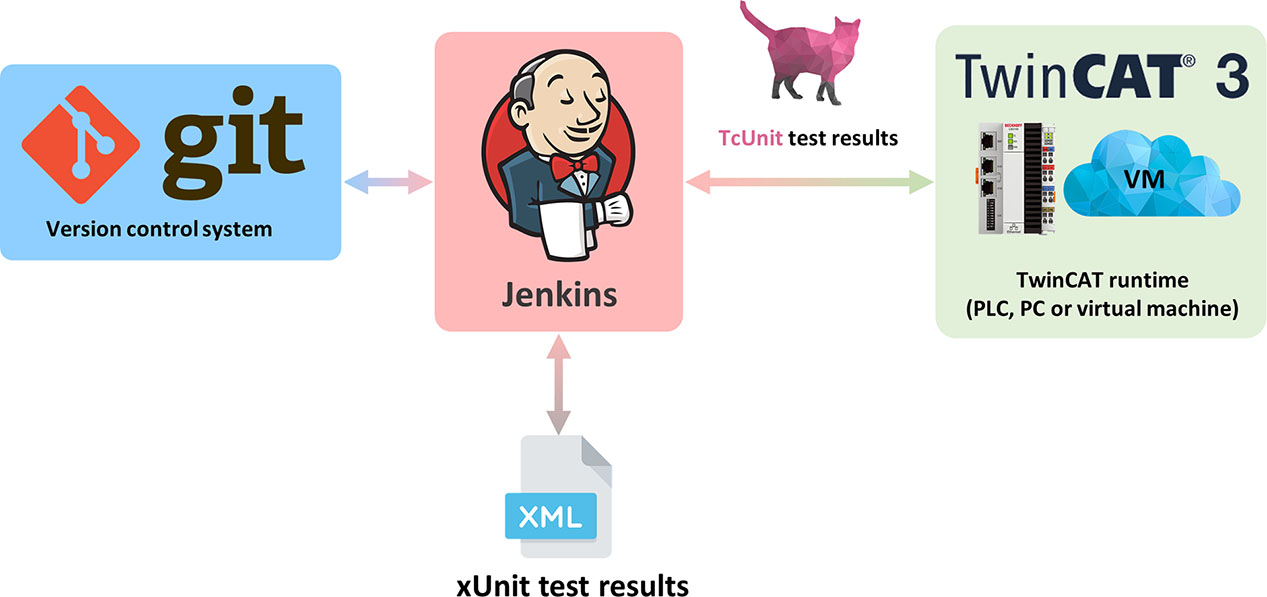
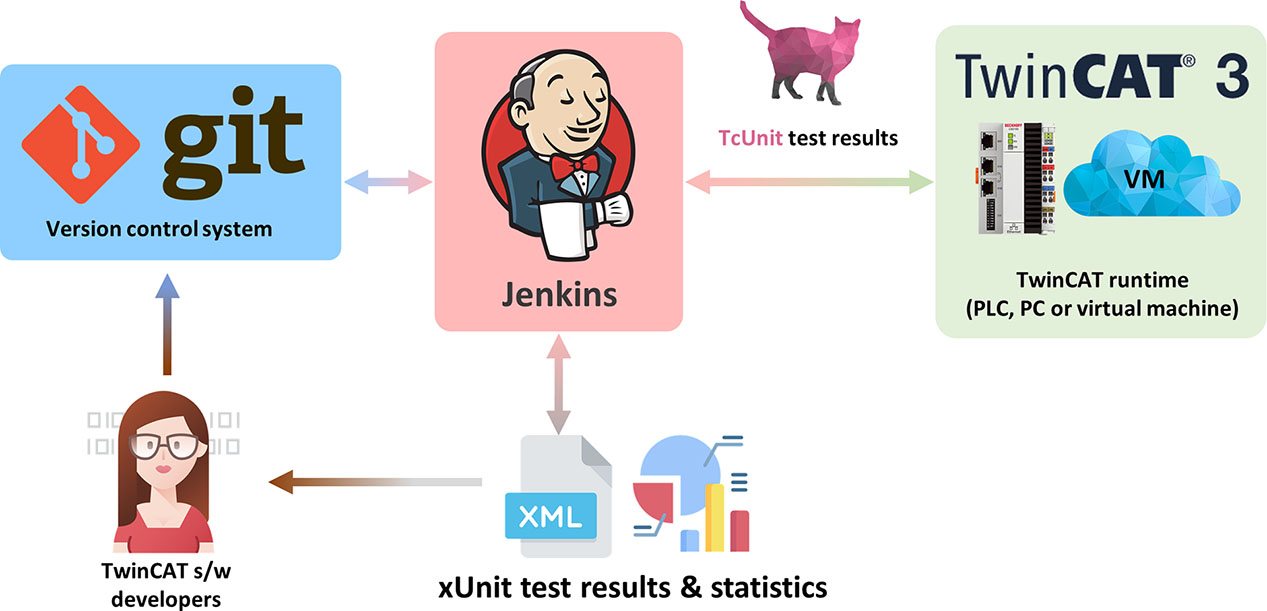
Updated readme. Updated main image file.

diff --git a/README.md b/README.md
@@ -1,5 +1,6 @@
 # TcUnit-Runner - TcUnit integration into Jenkins
-Welcome to the documentation of Program that makes it possible to automate runs of TcUnit unit tests
+Welcome to the documentation of TcUnit-Runner - the program that makes it possible to automate runs of TcUnit unit
+tests.
 
 TcUnit-Runner is a piece of software that makes it possible to integrate [TcUnit](https://github.com/tcunit/TcUnit)
 (TwinCAT unit tests) in a CI/CD software such as Jenkins.
@@ -13,11 +14,10 @@ supports.
 
 **Want to get started?**
 
-Read the [introduction](https://tcunit.org/tcunit-runner-introduction/),
-the [quick start](https://tcunit.org/tcunit-runner-quick-start/)
-and optionally the full [user guide](https://tcunit.org/tcunit-runner-user-guide/).
+Read the [user manual](https://tcunit.org/tcunit-runner-user-manual/).
 
-If you are completely new to unit testing in general and unit testing in TwinCAT in particular I recommend reading the:
+If you are completely new to unit testing in general and unit testing in TwinCAT in particular it's recommended
+to read the:
 
 1. [Core concepts](https://tcunit.org/unit-testing-concepts/) of unit testing
 2. [Introduction user guide to TcUnit](https://tcunit.org/introduction-user-guide/) (the TwinCAT unit testing framework)
